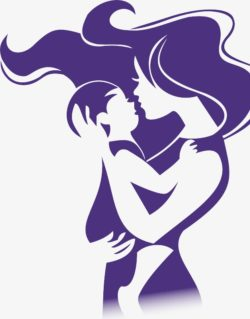
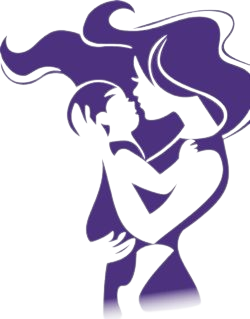
add

diff --git a/src/components/Header.js b/src/components/Header.js
@@ -1,0 +1,53 @@
+import React from 'react';
+import myImage from "../images/lo.png";
+import { Link } from 'react-router-dom';
+import { Navbar, Nav, Button } from 'react-bootstrap';
+import "../style/Header.css";
+
+const Header = () => {
+  return (
+    <>
+{/*    
+     
+        <img src={myImage} alt="My Image" width="170px" height="150px" className="d-inline-block align-top mr-2" />
+       <br></br>
+        <nav className="navbar">
+      
+      <ul>
+       
+          <Link to="/SignUp">SignUp</Link>      
+          <Link to="/Login">login</Link>
+       
+       
+      </ul>
+      
+    </nav>
+  <header/>     */}
+{/* 
+<Navbar expand="lg" bg="light" variant="light" sticky="top">
+      <Navbar.Brand>
+        <img src={myImage} alt="My Image" width="300px" height="200px" className="d-inline-block align-top mr-2" />
+      
+      </Navbar.Brand>
+      <Navbar.Toggle aria-controls="navbar-nav" />
+      <Navbar.Collapse id="navbar-nav">
+        <Nav className="mr-auto">
+         
+         
+        </Nav>
+        <Nav>
+          <Nav.Item>
+            <Button as={Link} to="/login" variant="outline-primary" className="mr-2">Login</Button>
+          </Nav.Item>
+          <Nav.Item>
+            <Button as={Link} to="/signup" variant="primary">Sign Up</Button>
+          </Nav.Item>
+        </Nav>
+      </Navbar.Collapse>
+    </Navbar> */}
+
+    </>
+  );
+};
+
+export default Header;

diff --git a/src/Router.js b/src/Router.js
@@ -4,6 +4,9 @@ import CommonIssuesAr from "./Admin/Baby/CommonIssuesAr.js";
 import ShowDetailsAr from "./Admin/Baby/ShowDetailsAr"
 import SignUp from "./Admin/Auth/SignUp.js";
 import Login from "./Admin/Auth/Login.js";
+
+
+
 import App from "./App";
 import Pregnancy from "./Admin/Prgnancy/Pregnancy.js";
 import Babygrowth from "./Admin/Prgnancy/Babygrowth.js";
@@ -50,7 +53,6 @@ import UpdateWeaningAr from "./Admin/Baby/UpdateWeaningAr.js";
 import UpdateBreastFeedingAr from "./Admin/Baby/UpdateBreastFeedingAr.js";
 import UpdateArtificalFeedingAr from "./Admin/Baby/UpdateArtificalFeedingAr.js";
 import UpdateIssueAr from "./Admin/Baby/UpdateIssueAr.js";
-
 
 
 import Feeding from "./Admin/Prgnancy/Feeding.js";
@@ -178,9 +180,9 @@ import UpdateFoodAr from "./Admin/Prgnancy/UpdateFoodAr.js";
 import UpdateVitaminAr from "./Admin/Prgnancy/UpdateVitaminsAr.js";
 export const router = createBrowserRouter([
   {
+
     path: "/",
-    element: <App />,
-    children: [
+    element: <App />,},
       {
         path: "/Login",
         element: <Login />,
@@ -190,6 +192,7 @@ export const router = createBrowserRouter([
         path: "/SignUp",
         element: <SignUp />,
       },
+
 
       {
         element: <Guest />,
@@ -963,6 +966,5 @@ export const router = createBrowserRouter([
           },
         ],
       },
-    ],
-  },
+  
 ]);

diff --git a/src/Admin/Baby/ProductCard.js b/src/Admin/Baby/ProductCard.js
@@ -2,7 +2,6 @@ import React, { useState, useEffect } from "react";
 import "../../style/productCard.css";
 import axios from "axios";
 import { Link } from 'react-router-dom';
-import { MdDelete } from "react-icons/md";
 import { FontAwesomeIcon } from '@fortawesome/react-fontawesome';
 import { faTrash } from '@fortawesome/free-solid-svg-icons';
 function ProductCard() {
@@ -43,15 +42,10 @@ function ProductCard() {
         <div key={item.id} className="product-Card">
           <div className="card-top"></div>
           <div className="card-info">
-<<<<<<< HEAD
-            <h3 className="title">{item.name}</h3>
-            
-=======
           <button onClick={() => deleteIssue(item.id)}>
           <FontAwesomeIcon icon={faTrash} />
         </button>
             <h3 className="title">{item.name}</h3>  
->>>>>>> e29f2e91daad5bc151029131f3d162a5f0bf9ce6
             <Link to={"/ShowDetails/" + item.id}>
               <button className="btnShow">Show Details</button>
             </Link>

diff --git a/src/style/login.css b/src/style/login.css
@@ -1,6 +1,6 @@
 .log-form{
     margin-top: 10px;
-    
+   
 }
 .signadmin{
     font-size: large;
@@ -25,10 +25,12 @@
     display: flex;
     justify-content: center;
     align-items: center;
-    background-image: url("../images/Newborn.webp");
+
+   
+    /* background-image: url("../images/Newborn.webp");
     background-size:500px;
     background-position: right;
-    background-repeat: no-repeat;
+    background-repeat: no-repeat; */
 }
 .output-box{
         width: 90%;
@@ -38,6 +40,7 @@
         border-radius:5px ;
         margin:0 20px; 
         margin-bottom: 20px;
+        
         
       }
       .label-log{
@@ -49,11 +52,11 @@
         font-size: large;
       }
 
-/* .imageLogin{
+/* /* .imageLogin{
   color: black;
   background-position: center;
   width: 100%;
   object-fit: contain;
   margin-left: 490px;
   margin-top: 400px;
-} */
+}  */

diff --git a/src/Admin/Auth/Login.js b/src/Admin/Auth/Login.js
@@ -4,7 +4,11 @@ import { setAuthUser } from "../../helper/Storage";
 import { Link } from "react-router-dom";
 import "../../style/login.css";
 import axios from "axios";
-import myImage from "../../images/Newborn.webp"
+import myImage from "../../images/lo.png";
+
+
+
+
 const Login = () => {
   const [email, setEmail] = useState("");
   const [password, setPassword] = useState("");
@@ -29,9 +33,14 @@ const Login = () => {
 
   return (
     <>
+    
       <div className="content">
-      
-        <div className="bodyForm">
+      <div className="bodyForm">
+         
+         
+      <img src={myImage} alt="My Image" width="180px" height="160px" className="d-inline-block align-top mr-2" />
+         
+         
           {/* {errors.length > 0 && (
             <div>
               <h2>Errors:</h2>

diff --git a/src/components/Headerlogout.js b/src/components/Headerlogout.js
@@ -2,10 +2,11 @@ import React from "react";
 import "../style/Header.css";
 import {Link} from "react-router-dom";
 import { removeAuthUser } from "../helper/Storage";
+
 // import { Link } from "react-router-dom";
 
 // import myImage from '../images/images.png';
-import myImage from "../images/final.png";
+//import myImage from "../images/final.png";
 
 
 const Header = () => {
@@ -14,7 +15,7 @@ const Header = () => {
     window.location.href = "/Login";
   };
   return (<header>
-    <img src={myImage} alt="My Image" class="logo"  width="110px" height="110px"/>
+    {/* <img src={myImage} alt="My Image" class="logo"  width="110px" height="110px"/> */}
     
     <button className="Newlogout" onClick={handleLogout}>Logout</button>
 

diff --git a/src/App.js b/src/App.js
@@ -2,20 +2,25 @@ import './App.css';
 import Footer from './shared/Footer';
 //import Login from './AdmiZ
 import {Outlet} from 'react-router-dom'
-// import myImage from "../src/images/welcome.webp";
+import Body from "./components/Body";
+import Header from "./components/Header";
+
+
 const App = () => {
   return (
    <>
-   
+
    {/* <Header/> */}
   {/* <p><h1>Helllo</h1></p>  */}
      {/* <div className='welcome'>
   <img src={myImage} alt="My Image" class="image"  width="300px" height="300px"/>
       </div> */}
 
+
    <Outlet/>
-   <Footer/>
- 
+   {/* <Footer/> */}
+   <Header/>
+   <Body/> 
    </>
   );
 }

diff --git a/src/Admin/HomePage.js b/src/Admin/HomePage.js
@@ -1,9 +1,9 @@
 import React from "react";
 import Header from "../components/Headerlogout";
+//import HomePage from "./Admin/HomePage.js";
+
 import "../style/UserHome.css";
 import { Link } from "react-router-dom";
-// import Image from "../images/logo.png"
-// import myImage from '../images/images logo.png';
 import Image from "../images/pregnancy.jpg"
 import myImage from "../images/Baby2.jpg";
 import "./Baby/Sidebar";

diff --git a/src/style/BodyChange.css b/src/style/BodyChange.css
@@ -1,6 +1,6 @@
 .ch_foot{
     min-height: calc(100vh - 220px);
-    background-image: url("../images/R.jpg");
+ /* background-image: url("../images/R.jpg"); */
     background-repeat: no-repeat;
     background-attachment: fixed;
     height: 100%;

diff --git a/src/components/Body.js b/src/components/Body.js
@@ -1,0 +1,15 @@
+import React from "react";
+import "../style/Body.css";
+
+
+
+const Body = () => {
+  return (
+    <>
+
+ 
+
+    </>
+  );
+};
+export default Body;

diff --git a/src/App.css b/src/App.css
@@ -36,3 +36,10 @@
     transform: rotate(360deg);
   }
 } */
+
+.photo{
+
+  width: 1500px;
+  height: 1000px;
+
+}
